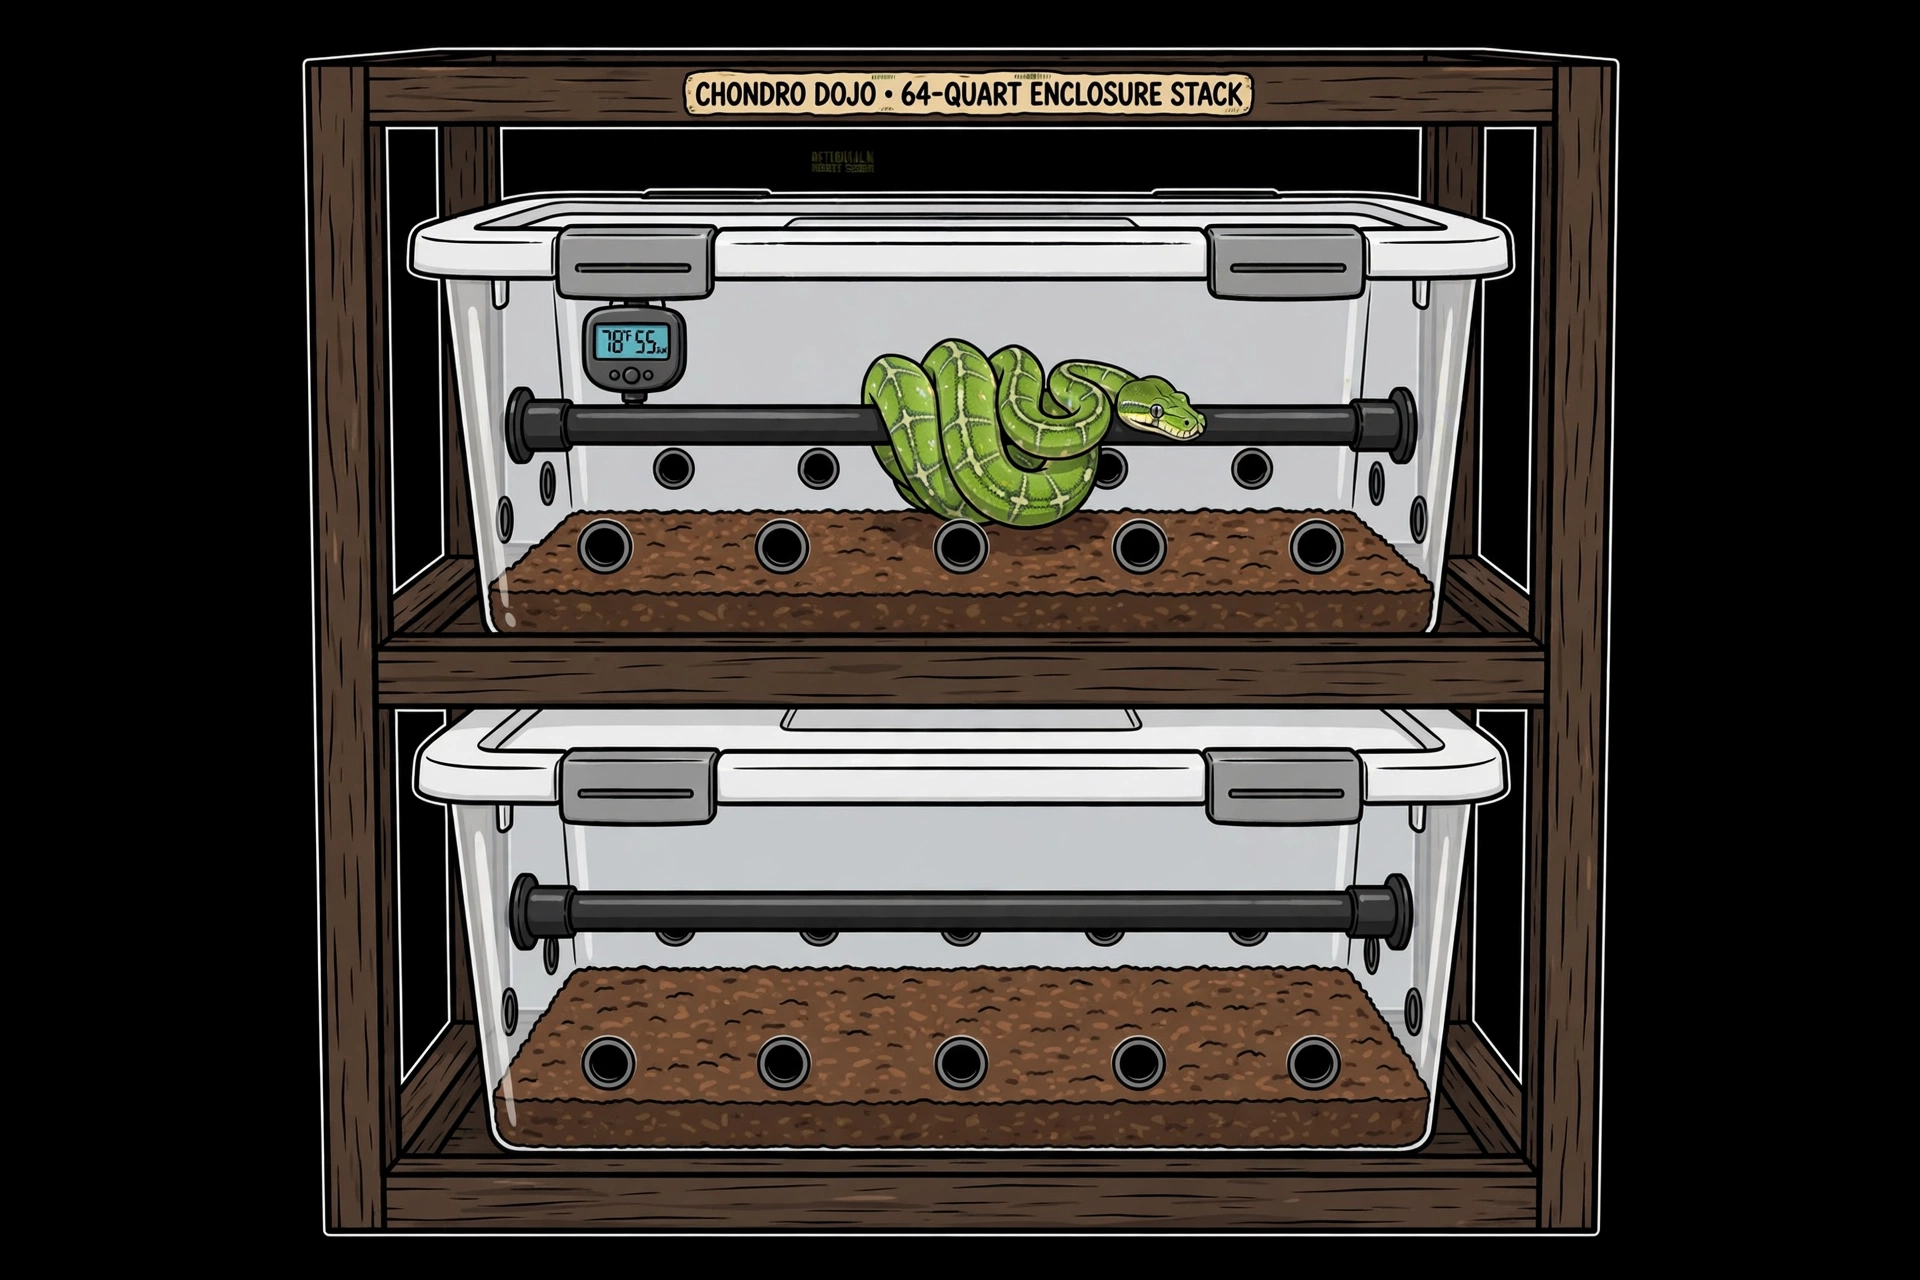
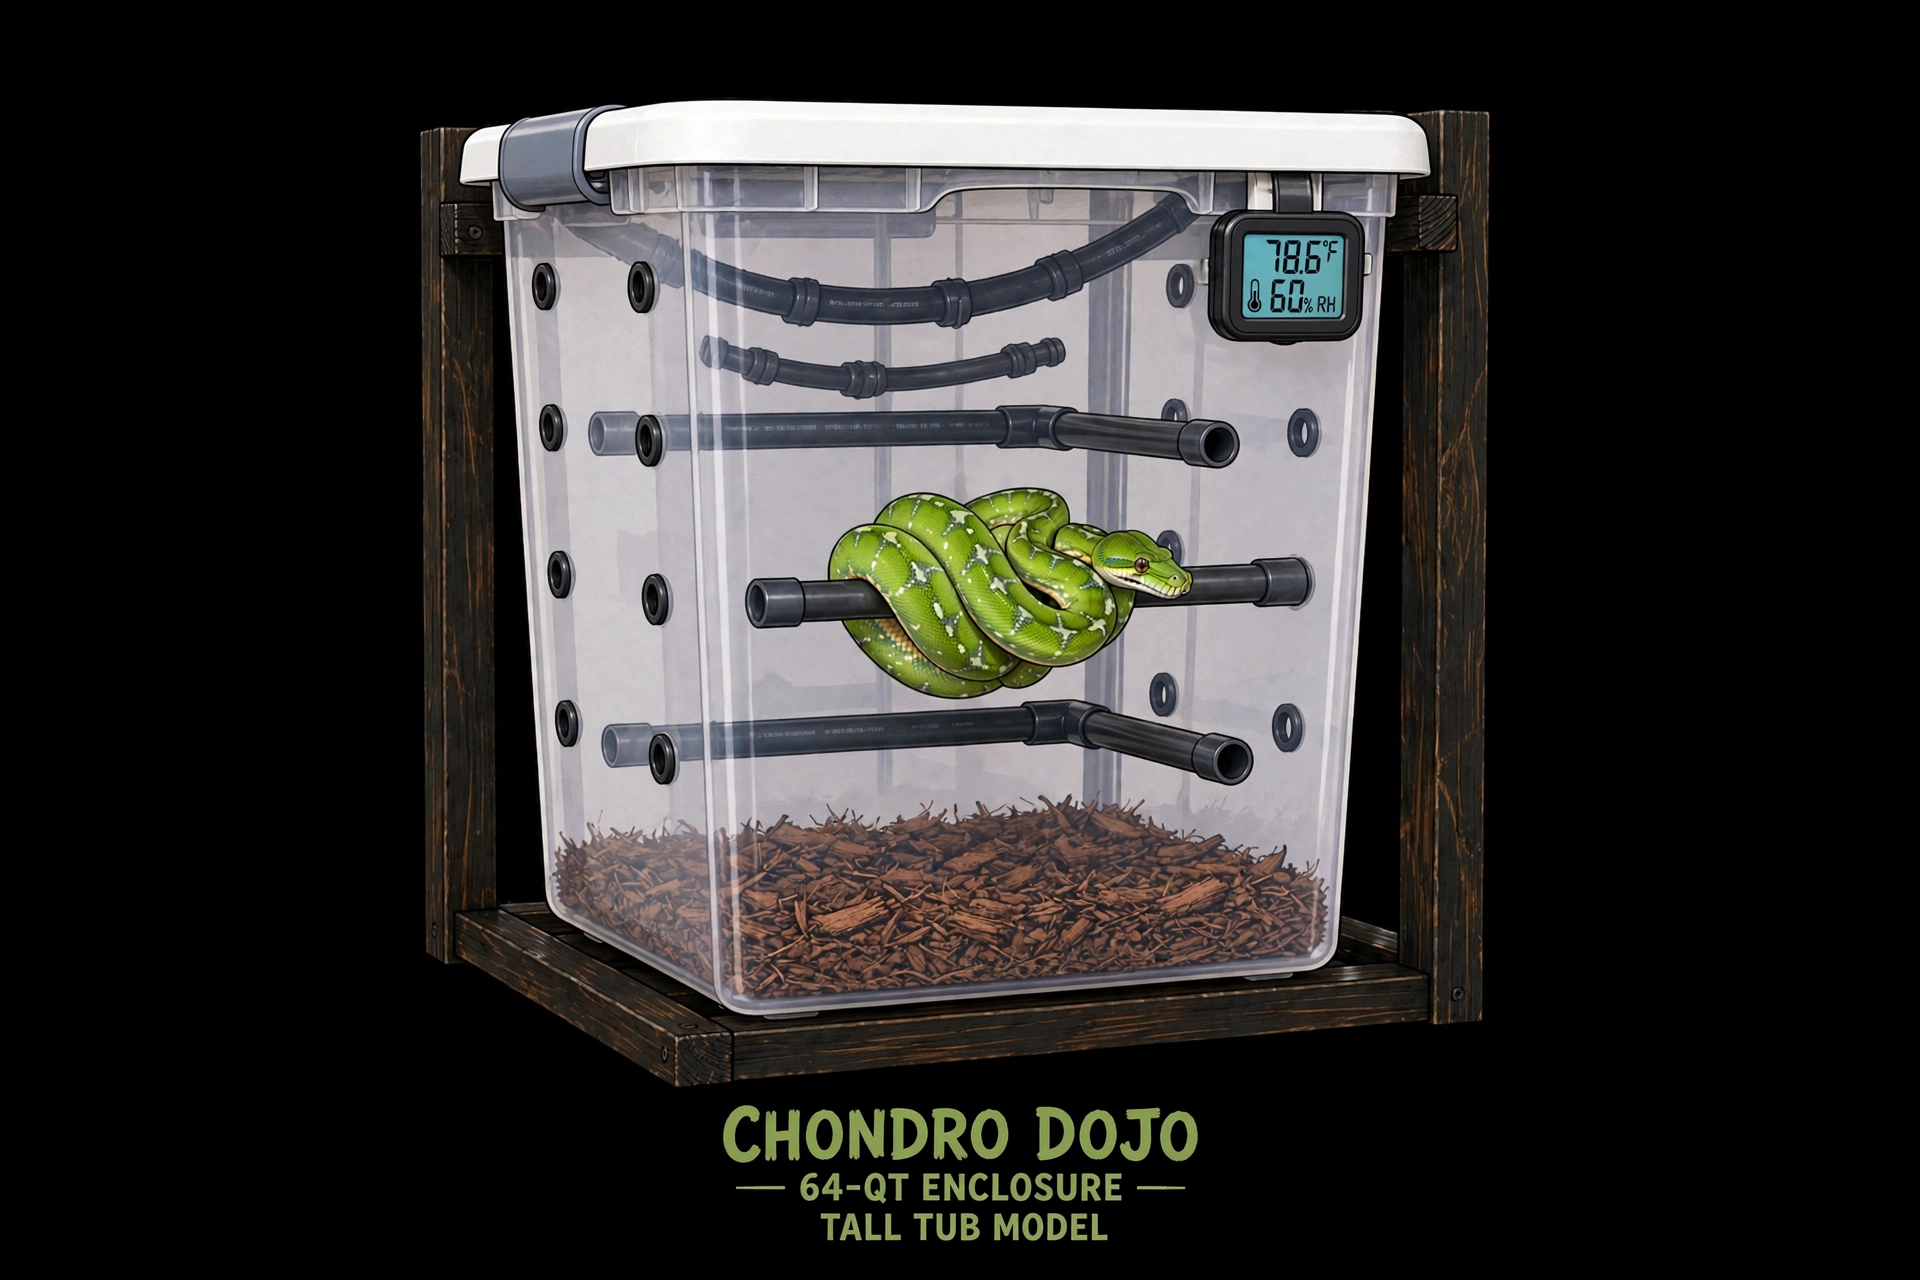
Chondro Dojo art: single tall tub, true 64-qt proportions
Gage's real bins are taller than the two-stack art showed. Redid the
art as one tall clear 64-qt tub in a wooden rack bay, proportions
matched to his 4-stack rack reference photo (sold as a 2-pack; buyers
will know). Single-file swap, no layout changes.

diff --git a/src/components/ChondroBreederExpandedShop.tsx b/src/components/ChondroBreederExpandedShop.tsx
@@ -682,7 +682,7 @@ export function ChondroBreederExpandedShop({ section, layout }: { section?: "qa"
               <article key={type} className={carousel ? "w-[66%] shrink-0 snap-start overflow-hidden rounded-[20px] border border-white/[.07] bg-black/15 sm:w-[230px]" : "overflow-hidden rounded-[22px] border border-white/[.07] bg-black/15"}>
                 <div className={carousel ? "relative h-24 overflow-hidden border-b border-white/[.06] bg-black/25" : "relative aspect-[16/8] overflow-hidden border-b border-white/[.06] bg-black/25"}>
                   {type === "Chondro Dojo Bin" ? (
-                    <Image src="/hatchery/game/chondro-dojo-2-stack.webp" alt="Chondro Dojo 2 Stack — two clear tub enclosures in a wooden rack with perches and a green tree python neonate" fill sizes="(max-width: 768px) 100vw, 50vw" className="object-cover object-center opacity-95" />
+                    <Image src="/hatchery/game/chondro-dojo-2-stack.webp" alt="Chondro Dojo 2 Stack — tall clear tub enclosure in a wooden rack with perches and a green tree python neonate" fill sizes="(max-width: 768px) 100vw, 50vw" className="object-cover object-center opacity-95" />
                   ) : (
                     <Image src="/hatchery/game/pvc-arboreal-enclosure.webp" alt="PVC Arboreal Enclosure — tall black PVC enclosure with perches and an adult green tree python" fill sizes="(max-width: 768px) 100vw, 50vw" className="object-cover object-center opacity-95" />
                   )}
